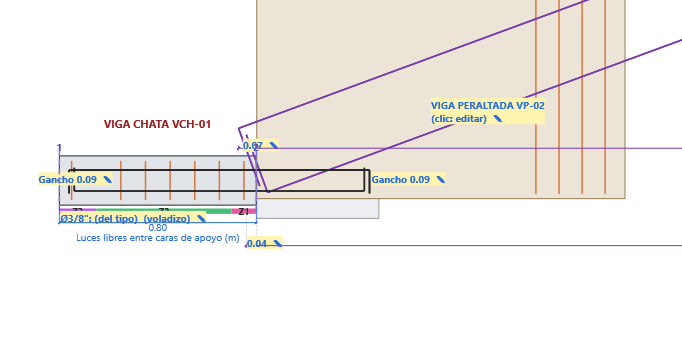
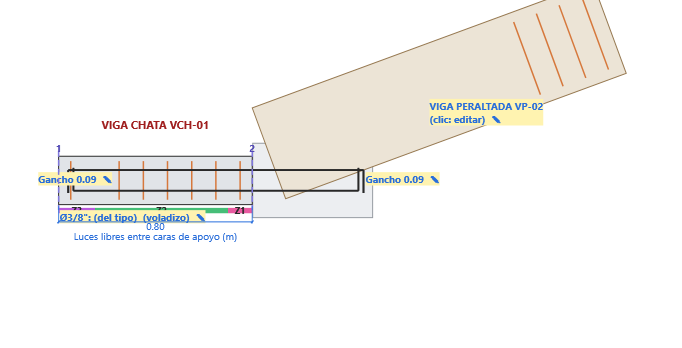
Acero Viga window: a neighbor beam sloped against this one drawn with its real outline (a stub along its own axis) and its stirrups square to it - no box over its whole height, no run-on bars or baston cotas that only hold for beams in line

diff --git a/BOKI Estructura.tab/Acero.panel/Acero Viga.pushbutton/script.py b/BOKI Estructura.tab/Acero.panel/Acero Viga.pushbutton/script.py
@@ -1756,9 +1756,15 @@ class AceroWindow(forms.WPFWindow):
                 s0, s1 = min(p[2] for p in pts), max(p[2] for p in pts)
                 if s0 > line.length + rb.LINE_GAP_M or s1 < -rb.LINE_GAP_M:
                     continue  # not next to it
+                xs_o = [p[0] for p in other.section.polygon_m]
+                if abs(abs(other.direction.DotProduct(line.direction)) - 1.0) > 1e-3:
+                    # sloped against this one (a level flat beam by a sloped deep one):
+                    # its real outline - a stub along its own axis from the end by
+                    # this beam -, its stirrups square to it; no run-on bars to show
+                    out.append(self._sloped_neighbor(line, other, t, tid))
+                    continue
                 # drawn as a stub at most NEIGHBOR_SHOWN_M long: this beam keeps its scale
                 s0, s1 = max(s0, -self.NEIGHBOR_SHOWN_M), min(s1, line.length + self.NEIGHBOR_SHOWN_M)
-                xs_o = [p[0] for p in other.section.polygon_m]
                 out.append({"line": other,  # the neighbor itself (this beam's run on into it)
                             "s0": s0, "s1": s1, "y0": min(p[1] for p in pts), "y1": max(p[1] for p in pts),
                             "x0": min(xs_o), "x1": max(xs_o),
@@ -1768,9 +1774,35 @@ class AceroWindow(forms.WPFWindow):
                             "tag": u"line:{}:{}".format(tid, id_of(other.elements[0].Id))})
         return out
 
-    def _neighbor_stirrups(self, line, other, t):
+    def _sloped_neighbor(self, line, other, t, tid):
+        """A neighbor beam not parallel to this line (sloped against it):
+        'poly' its side outline over NEIGHBOR_SHOWN_M from its end by this
+        beam, 'segs' its stirrups square to its axis - in this line's frame."""
+        ys = [p[1] for p in other.section.polygon_m]
+        y_lo, y_hi = min(ys), max(ys)
+        near0 = abs(line.local(other.point(0.0, 0.0, 0.0))[2] - line.length / 2.0)
+        near1 = abs(line.local(other.point(0.0, 0.0, other.length))[2] - line.length / 2.0)
+        L = min(self.NEIGHBOR_SHOWN_M, other.length)
+        a, b = (0.0, L) if near0 <= near1 else (other.length - L, other.length)
+
+        def at(s, y):
+            p = line.local(other.point(0.0, y, s))
+            return (p[2], p[1])
+        poly = [at(a, y_lo), at(b, y_lo), at(b, y_hi), at(a, y_hi)]
+        cover = 0.04
+        segs = [at(s, y_lo + cover) + at(s, y_hi - cover)
+                for s in self._neighbor_stirrups(line, other, t, raw=True) if a <= s <= b]
+        return {"line": other, "poly": poly, "segs": segs,
+                "s0": min(p[0] for p in poly), "s1": max(p[0] for p in poly),
+                "y0": min(p[1] for p in poly), "y1": max(p[1] for p in poly),
+                "x0": min(p[0] for p in other.section.polygon_m), "x1": max(p[0] for p in other.section.polygon_m),
+                "label": self._kind_text(other, t.name), "stirrups": [], "bars": [],
+                "tag": u"line:{}:{}".format(tid, id_of(other.elements[0].Id))}
+
+    def _neighbor_stirrups(self, line, other, t, raw=False):
         """A neighbor beam's stirrups as its own type sets them (its spans,
-        a cantilever from its support), in this line's elevation frame."""
+        a cantilever from its support), in this line's elevation frame
+        (`raw`: as positions along the neighbor itself, m)."""
         try:
             cfg = t.config()
             zones, rest = rs.parse_distribution(cfg["EA_Estribo_Borde_Distribucion"])
@@ -1783,7 +1815,7 @@ class AceroWindow(forms.WPFWindow):
                 own = bx.span_text(settings, index, "edge")
                 z, r = rs.parse_distribution(own) if own else (zones, rest)
                 for offset, _ in rs.span_zone_positions(b - a, z, r, free.get(index)):
-                    out.append(line.local(other.point(0.0, 0.0, a + offset))[2])
+                    out.append(a + offset if raw else line.local(other.point(0.0, 0.0, a + offset))[2])
             return out
         except Exception:
             return []  # not set up: drawn without them

diff --git a/revit_mcp/rebar_views.py b/revit_mcp/rebar_views.py
@@ -1008,6 +1008,11 @@ def draw_beam_elevation(canvas, data, frame):
     # Acero Viga: the beams of other types next to it (a flat beam past this
     # one) with their own stirrups - under the bars, which may run into them
     for m in data.get("mixed") or []:
+        if m.get("poly"):  # sloped against this beam: its real outline, stirrups square to it
+            _polygon(canvas, frame, [(s, y * k) for s, y in m["poly"]], _brush(236, 228, 214), _brush(150, 120, 80))
+            for sa, ya, sb, yb in m.get("segs") or []:
+                _line(canvas, frame, (sa, ya * k), (sb, yb * k), C_EDGE, 1.5)
+            continue
         _rect(canvas, frame, m["s0"], m["y0"] * k, m["s1"], m["y1"] * k, _brush(236, 228, 214), _brush(150, 120, 80))
         for s in m.get("stirrups") or []:  # its own stirrups, as its type sets them
             _line(canvas, frame, (s, m["y0"] * k + cover * 0.5), (s, m["y1"] * k - cover * 0.5), C_EDGE, 1.5)
